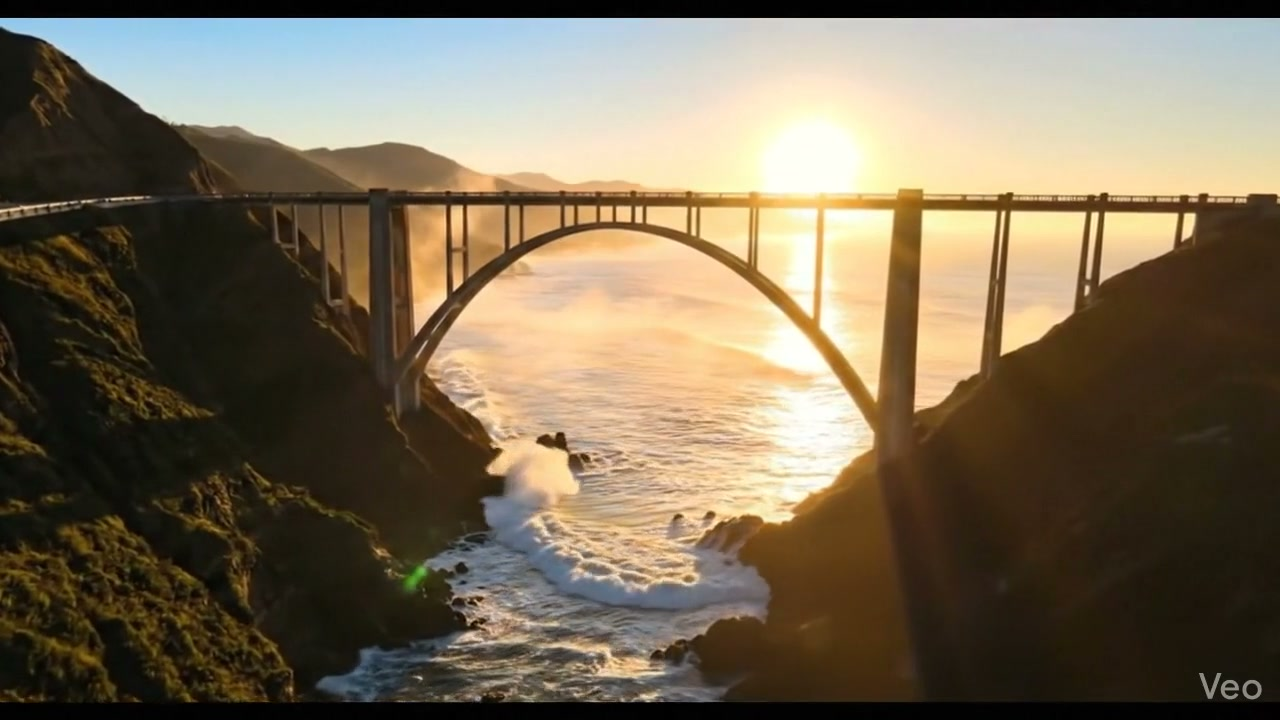
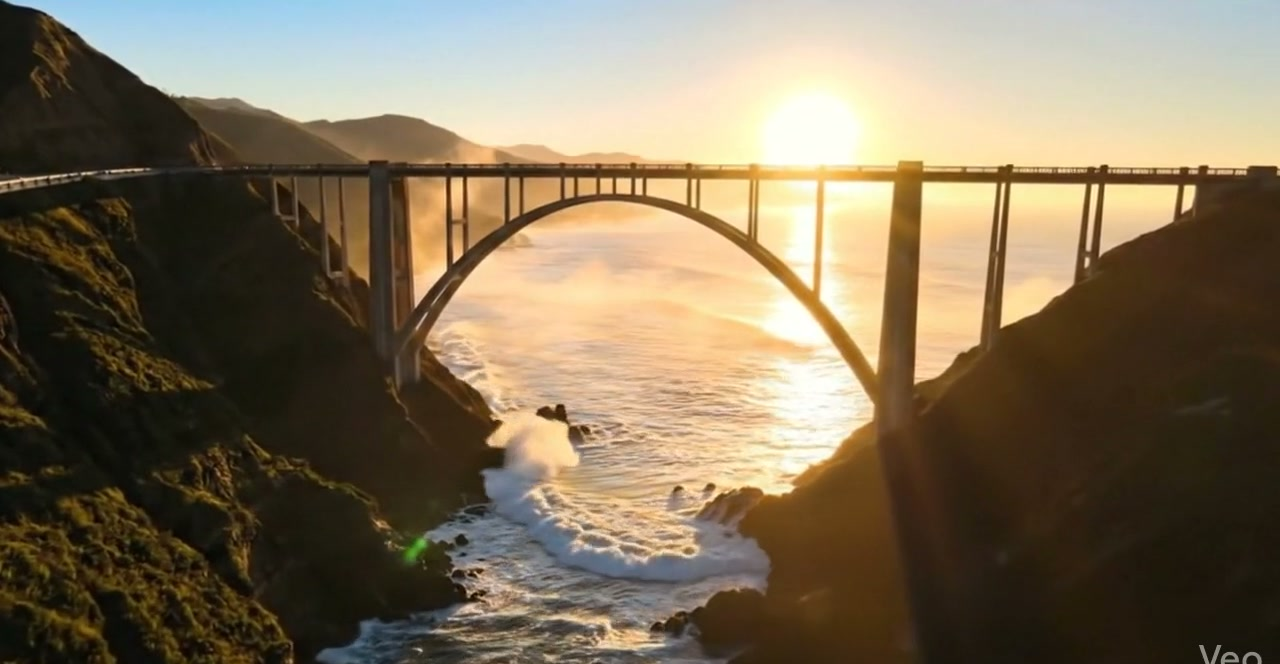
fix: crop black letterbox bars from mobile hero poster
Re-extract hero-poster.jpg with letterbox bars removed (1280x664).
Center position so the bridge arch is visible on mobile.

diff --git a/design-system.css b/design-system.css
@@ -672,7 +672,7 @@ nav { max-width: 1600px; margin: 0 auto; padding: 0 var(--space-8); display: fle
     height: 100%;
     background-image: url('hero-poster.jpg');
     background-size: cover;
-    background-position: center 30%;
+    background-position: center center;
     animation: heroPan 25s ease-in-out infinite alternate;
 }
 
